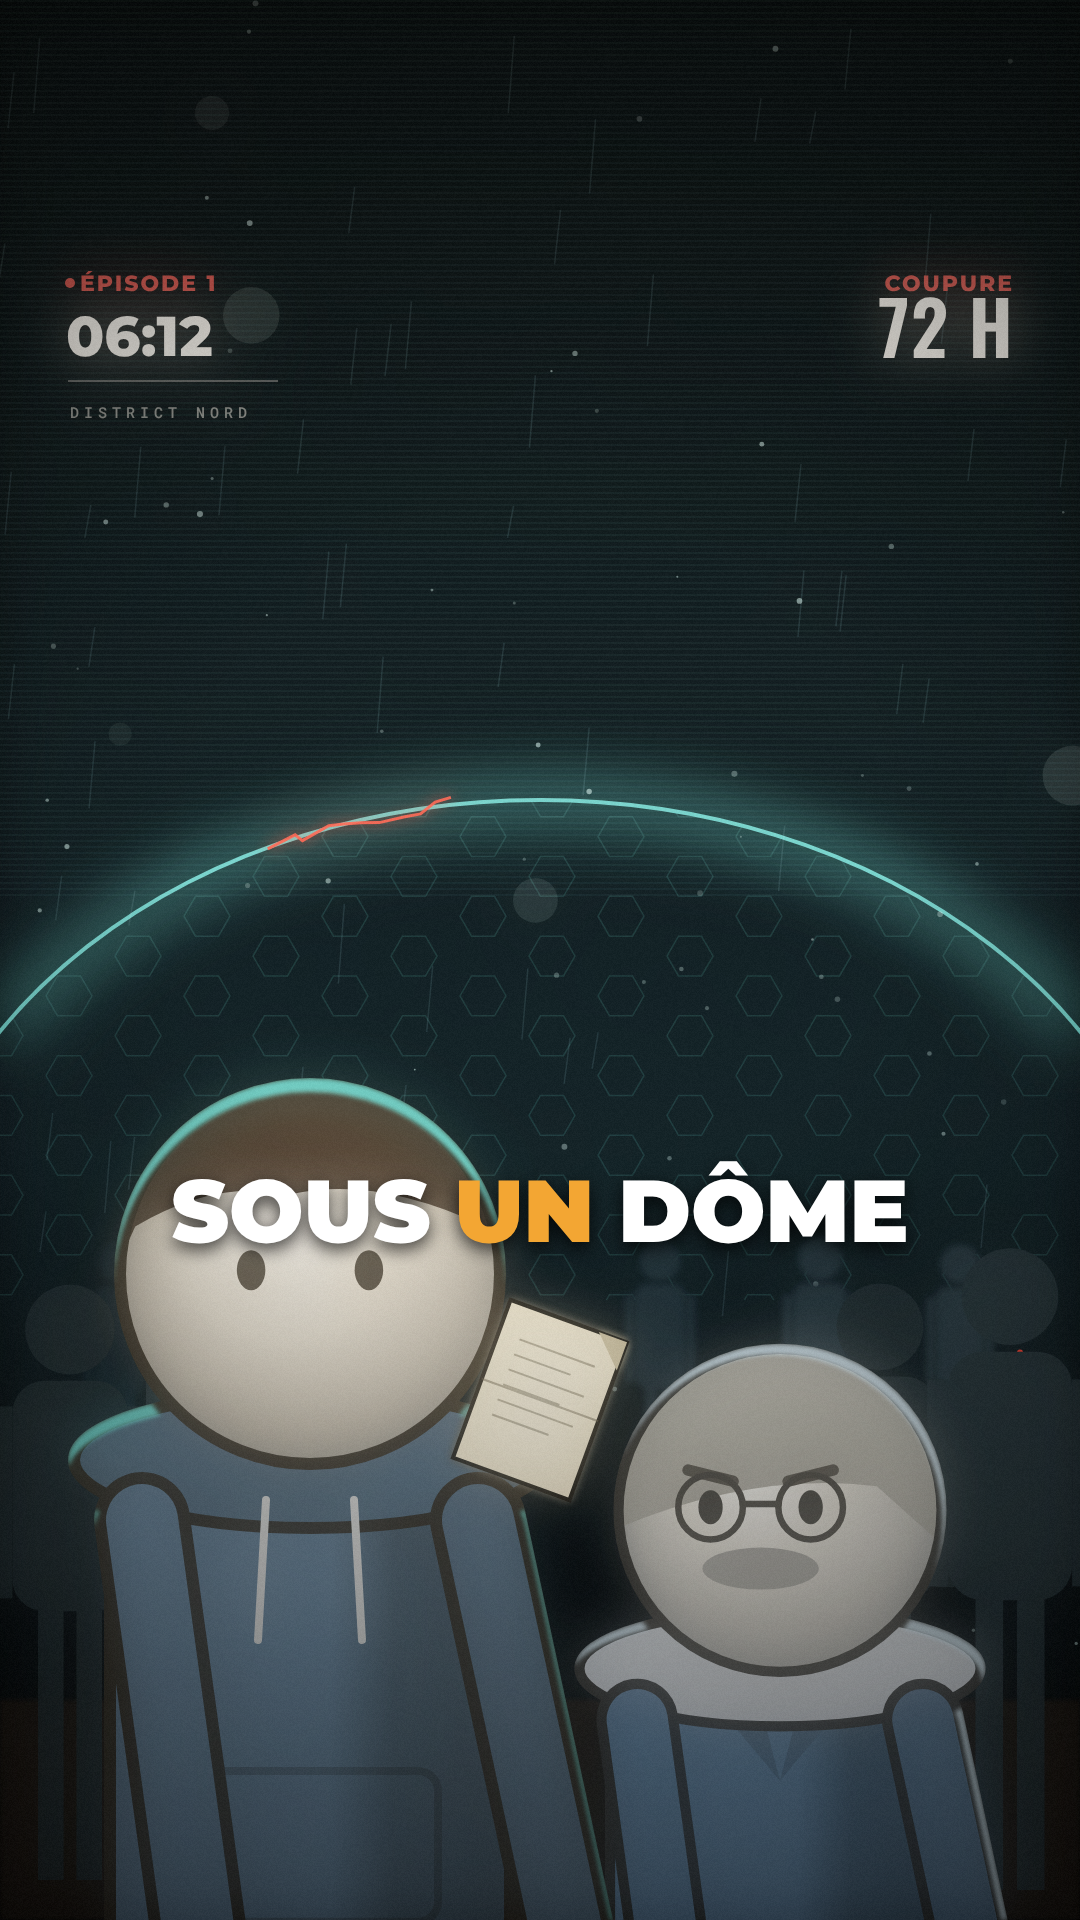
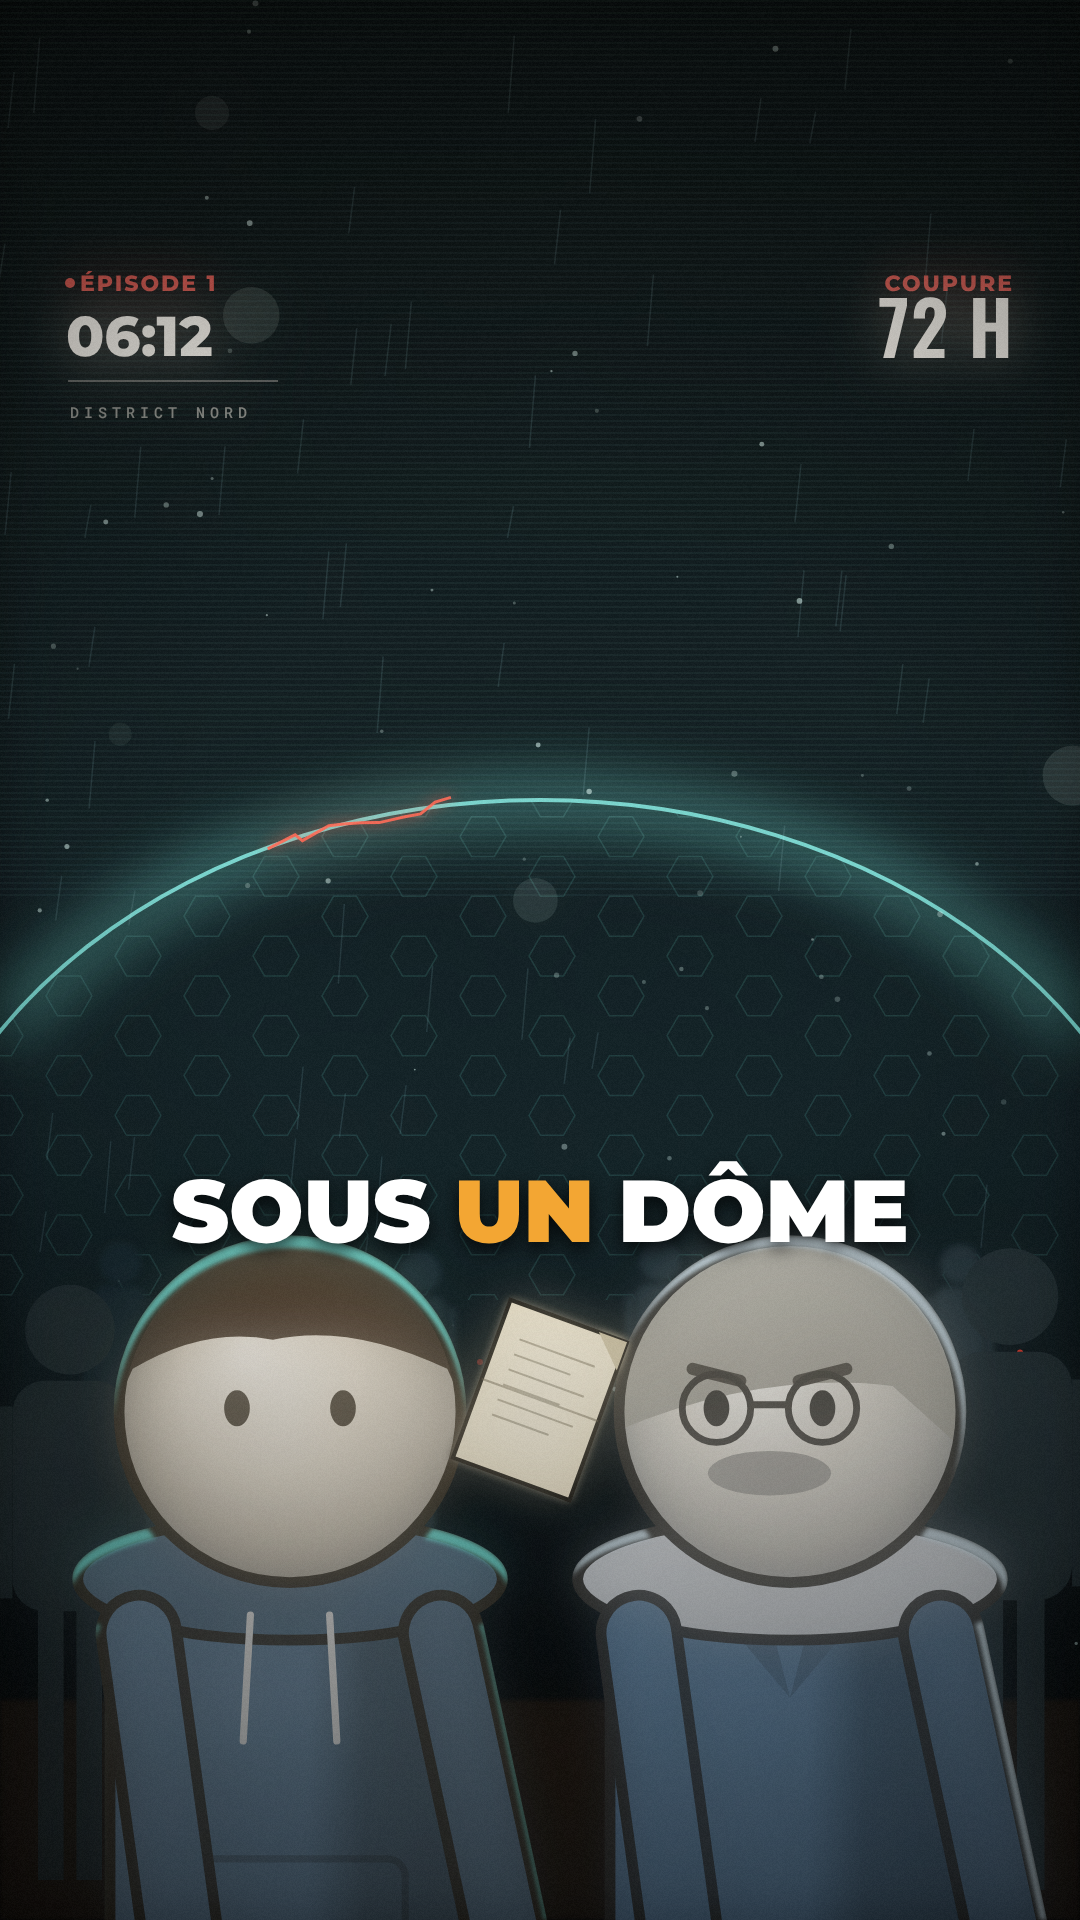
couronne-ep01 : plan 2 — héros et père face caméra, même échelle et même distance, écart entre eux
Claude-Session: https://claude.ai/code/session_0151hKPePi5KPXjL7mUCuxno

Changed region(s): [[0.0611, 0.5625, 0.9778, 1.0]]

diff --git a/productions/couronne-ep01/rendu_v3/scenes.js b/productions/couronne-ep01/rendu_v3/scenes.js
@@ -770,8 +770,8 @@ S.p02h_buste_vivant = g => {                              // image 2 v13
   holoDome(g, 101);
   layer(g, q => { q.fillStyle = "#1b1510"; q.fillRect(0, 1700, W, H - 1700); }, { blur: 2 });
   crowdStanding(g);
-  actor(g, 780, 2680, 1.7, { ...PERE, look: -0.12, arms: [[-1, 10], [1, 10]] }, { rim: "#cfe3ee", rimAng: -1.2, rimW: 7, key: "#dfe9ef", shadow: false });   // père, côté droit
-  actor(g, 310, 2650, 2.0, { ...HERO, look: 0.0, arms: [[-1, 10], [1, 10]] }, { rim: TEAL, rimAng: -1.57, rimW: 7, key: "#ffd9a0", shadow: false });
+  actor(g, 790, 2650, 1.8, { ...PERE, look: -0.12, arms: [[-1, 10], [1, 10]] }, { rim: "#cfe3ee", rimAng: -1.2, rimW: 7, key: "#dfe9ef", shadow: false });   // père, côté droit
+  actor(g, 290, 2650, 1.8, { ...HERO, look: 0.0, arms: [[-1, 10], [1, 10]] }, { rim: TEAL, rimAng: -1.57, rimW: 7, key: "#ffd9a0", shadow: false });
   paperSheet(g, 540, 1400, 1.0, 0.35, 4);
   paperSheet(g, 540, 1400, 1.0, 0.35, 0);
   hud(g); finish(g, { bloom: 0.35, grade: ["#06202a", "#ffd9a0", 0.16] }); caption(g, ["SOUS", "UN", "DÔME"], 1);
@@ -782,8 +782,8 @@ S.p02i_sol_vivant = g => {                                // image 3 v13
   holoDome(g, 103);
   layer(g, q => { q.fillStyle = "#1b1510"; q.fillRect(0, 1700, W, H - 1700); }, { blur: 2 });
   crowdStanding(g);
-  actor(g, 780, 2680, 1.7, { ...PERE, look: -0.12, arms: [[-1, 10], [1, 10]] }, { rim: "#cfe3ee", rimAng: -1.2, rimW: 7, key: "#dfe9ef", shadow: false });   // père, côté droit
-  actor(g, 310, 2650, 2.0, { ...HERO, look: 0.0, arms: [[-1, 10], [1, 10]] }, { rim: TEAL, rimAng: -1.57, rimW: 7, key: "#ffd9a0", shadow: false });
+  actor(g, 790, 2650, 1.8, { ...PERE, look: -0.12, arms: [[-1, 10], [1, 10]] }, { rim: "#cfe3ee", rimAng: -1.2, rimW: 7, key: "#dfe9ef", shadow: false });   // père, côté droit
+  actor(g, 290, 2650, 1.8, { ...HERO, look: 0.0, arms: [[-1, 10], [1, 10]] }, { rim: TEAL, rimAng: -1.57, rimW: 7, key: "#ffd9a0", shadow: false });
   g.fillStyle = "rgba(0,0,0,0.4)"; g.beginPath(); g.ellipse(880, 1852, 90, 12, 0, 0, 7); g.fill();
   paperSheet(g, 880, 1842, 0.9, 1.45, 0);
   hud(g); finish(g, { bloom: 0.35, grade: ["#06202a", "#ffd9a0", 0.16] }); caption(g, ["SOUS", "UN", "DÔME"], 1);
